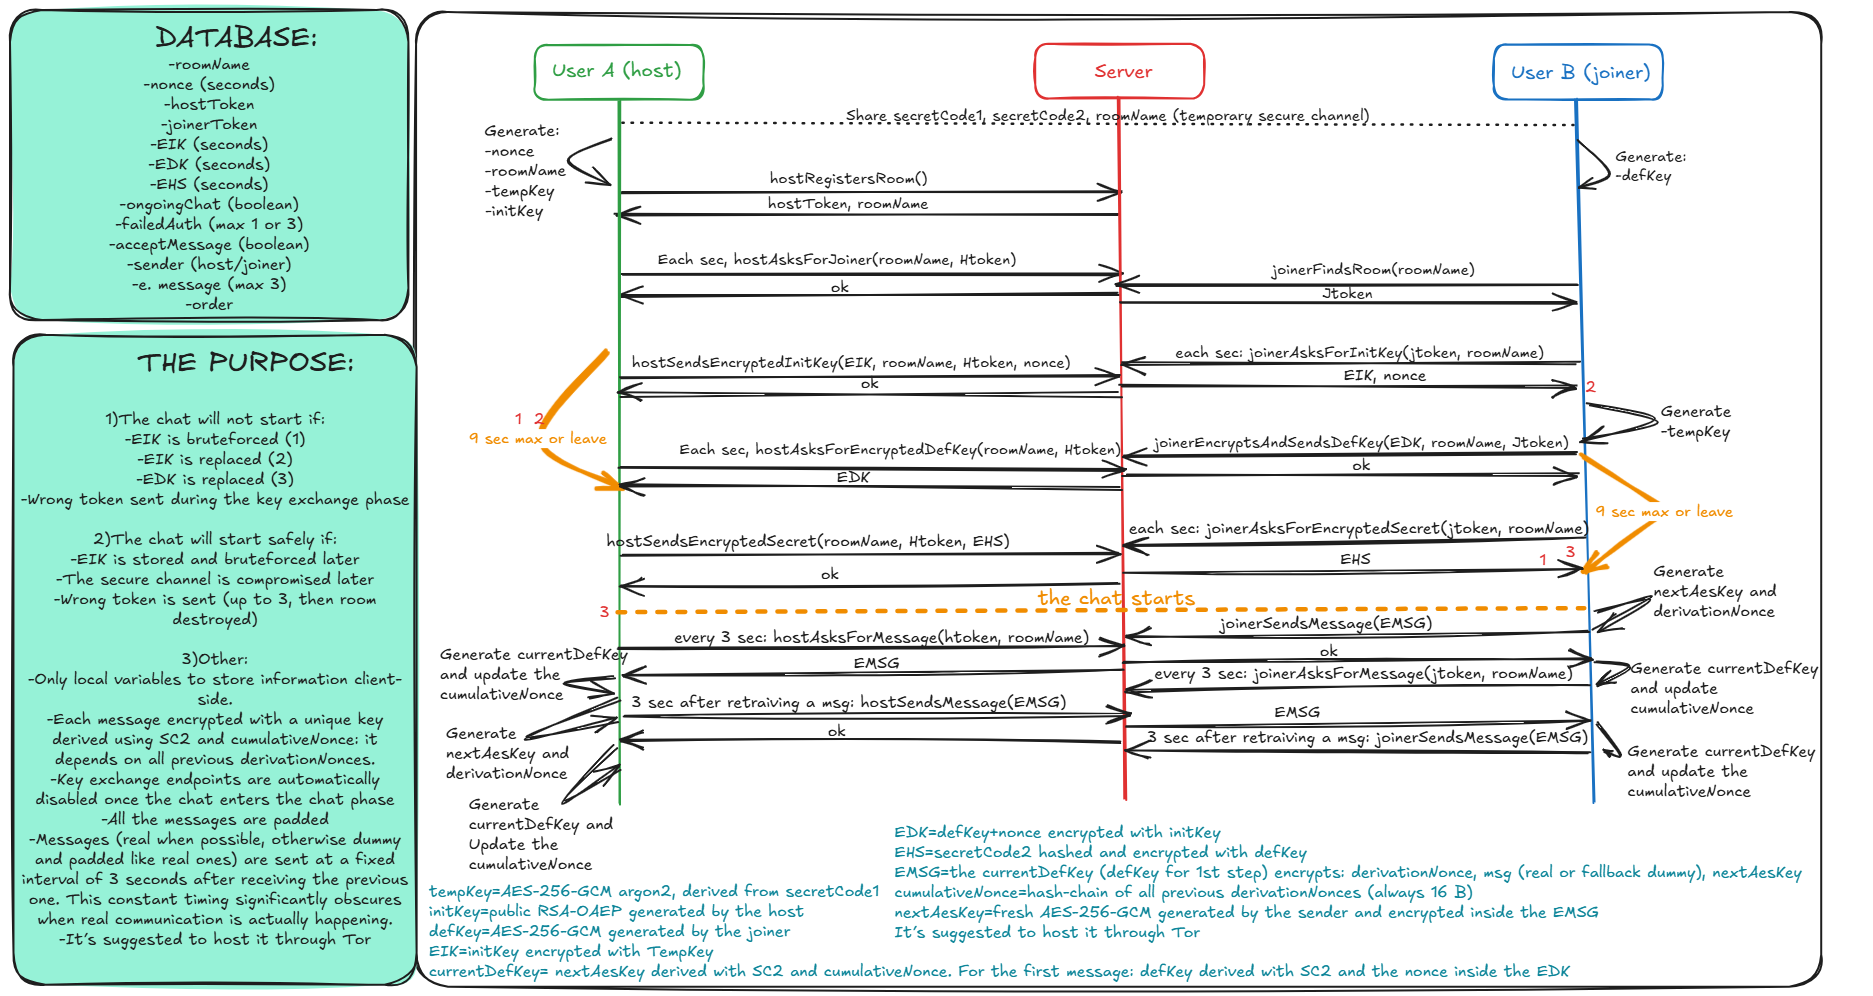
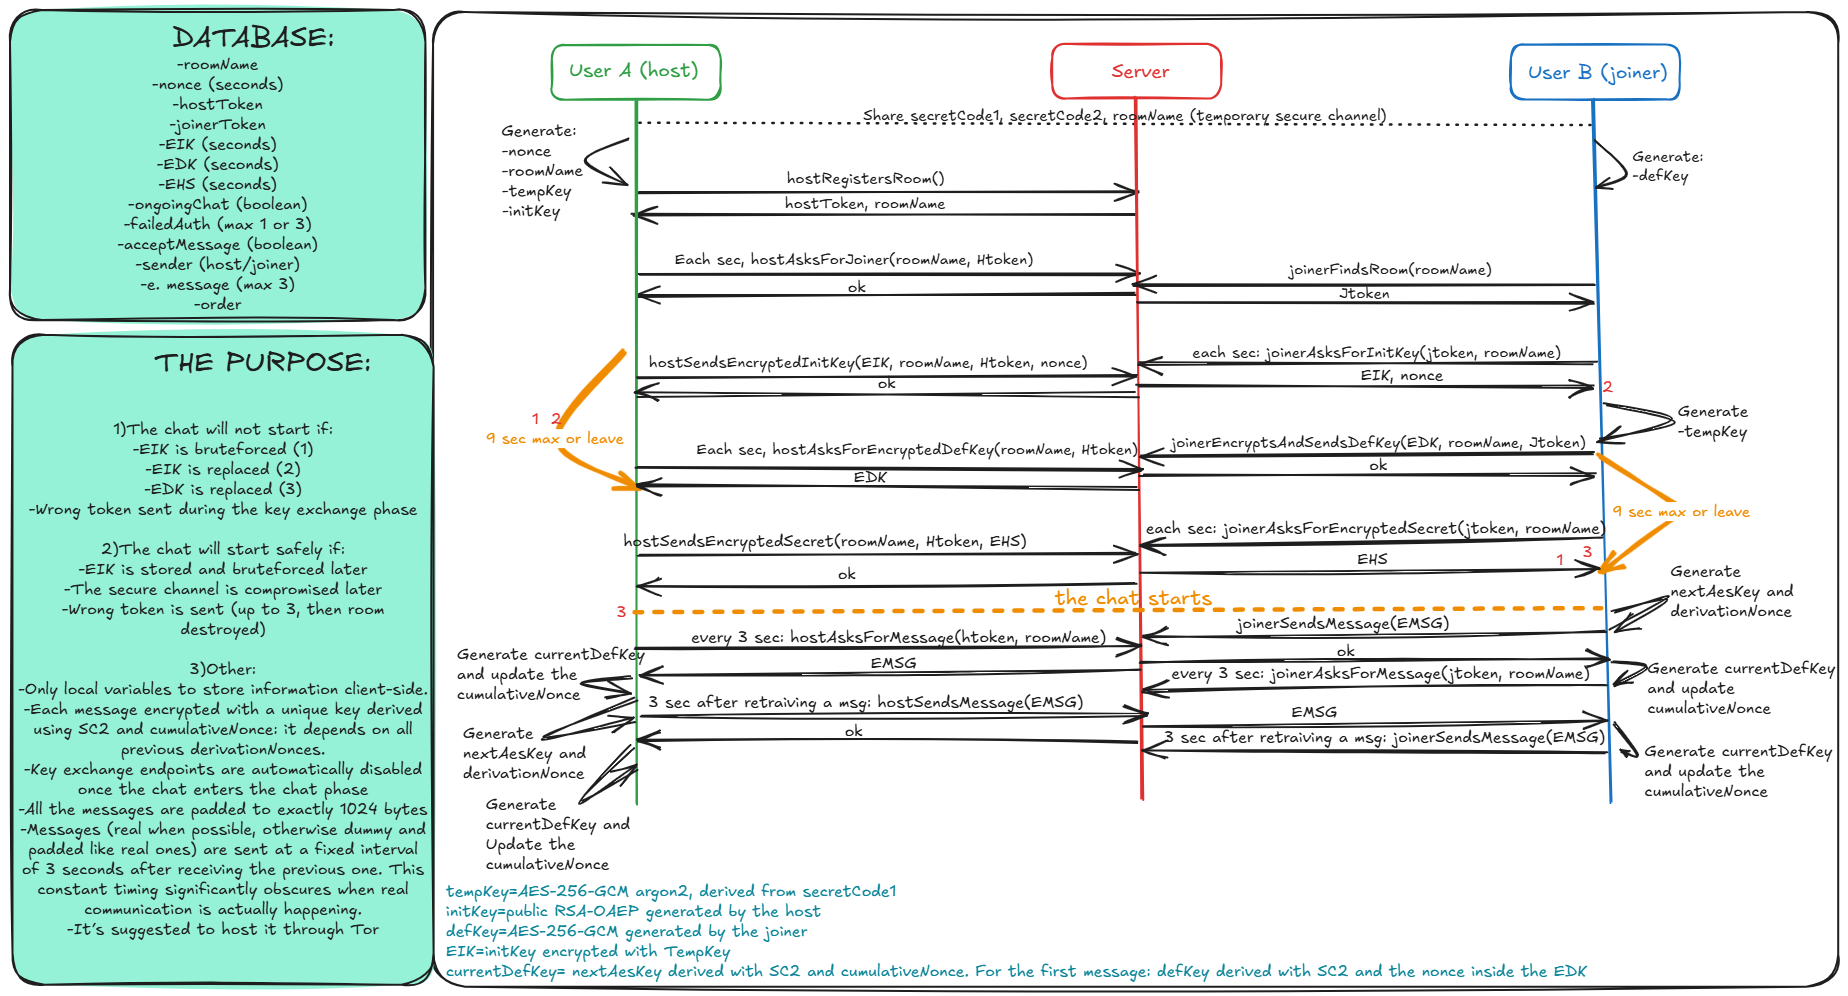
fix: use fixed-byte padding to close UTF-8 multi-byte side-channel
Every message now padded to exactly 1024 random bytes, eliminating the UTF-8 multi-byte ratio side-channel

diff --git a/front/script.js b/front/script.js
@@ -12,7 +12,7 @@
 9)The joiner asks for the encrypted hash of SecretCode2, decrypts it, compares it. If matches, the process is validated and the joiner timer cleared then sends the first message and starts the poling to get new messages.
 ----the chat starts---
 -The first message is encrypted (and decrypted) with defKey derived with the nonce (step 6 or 7) and the secretCode2 and sent by the joiner. Then:
-10)The sender encrypts a message (3 digit ASCII length of the real message + the realMessage (can be dummy) + padding up to 420 characters + extra random padding of 0–79 characters, e.g., 004CaféawefTRe47...) + a fresh AES + a nonce (derivationNonce) using currentDefKey and sends it. Then updates cumulativeNonce (first message: defKey as currentKey and the nonce sent with defKey as derivationNonce and secretCode2; later: SHA-256(old||new)[0:15]) and derives the next currentDefKey = AES derived with secretCode2 + cumulativeNonce. 
+10)The sender encrypts a message (3 digit ASCII length of the real message + the realMessage (can be dummy) + random byte padding to exactly 1024 bytes) + a fresh AES + a nonce (derivationNonce) using currentDefKey and sends it. Then updates cumulativeNonce (first message: defKey as currentKey and the nonce sent with defKey as derivationNonce and secretCode2; later: SHA-256(old||new)[0:15]) and derives the next currentDefKey = AES derived with secretCode2 + cumulativeNonce. 
 11)The receiver decrypts using currentDefKey, gets the AES and derivationNonce, updates cumulativeNonce exactly the same way (SHA-256(old||new)[0:15]), then derives the next currentDefKey = the received AES derived with secretCode2 + cumulativeNonce. Finally, he sends a message (a dummy one if the user doesn't send a real message) after 3 seconds.
 */
 function app() {
@@ -964,15 +964,14 @@ function app() {
         if (realMessage === null || realMessage === undefined) {
             return;
         }
-        if (realMessage.length > 420) {
-            console.warn("The message is longer than 420 characters. Please make it shorter or split it.")
+        const messageLength3Chars = String(realMessage.length).padStart(3, "0");
+        const encoder = new TextEncoder();
+        let messageBytes = encoder.encode(messageLength3Chars + realMessage);
+        if (messageBytes.byteLength > 1024) {
+            console.warn("The message is longer than 1024 bytes. Please make it shorter or split it.")
             return
         }
-        const charactersNeededForPadding = 423 - 3 - realMessage.length // Base padding needed to reach 423 characters (3 are reserved for the length field)
-        let extraPaddingLength = Math.floor(Math.random() * 80) // Random padding extension (0–79 extra characters)
-        let padding = generatePadding(charactersNeededForPadding + extraPaddingLength)
-        const messageLength3Chars = String(realMessage.length).padStart(3, "0");
-        let paddedMessage = messageLength3Chars + realMessage + padding //004CafènrUe23j0das0id02ej12e9...
+        let padding = generatePadding(1024 - messageBytes.byteLength)
         try {
             // 1. Generate the next random AES key that will be derived (secretCode2 + cumulativeNonce) and used after this message
             const nextAesKey = await crypto.subtle.generateKey(
@@ -984,13 +983,15 @@ function app() {
             // 2. Generate a fresh derivation nonce (16 bytes) that will be cumulated and used (with secretCode2) to derive the key for the NEXT message
             const derivationNonce = crypto.getRandomValues(new Uint8Array(16));
             // 3. Build the payload: paddedMessage || nextAesKey (32) || derivationNonce (16)
-            const encoder = new TextEncoder();
-            const msgData = encoder.encode(paddedMessage);
+            const msgData = new Uint8Array(1024);
+            msgData.set(messageBytes, 0);
+            msgData.set(padding, messageBytes.byteLength);
             const payload = new Uint8Array(msgData.byteLength + 32 + 16);
             payload.set(msgData, 0);
             payload.set(nextAesRaw, msgData.byteLength);
             payload.set(derivationNonce, msgData.byteLength + 32);
             // 4. Standard AES-GCM IV (still sent in clear – required by the algorithm)
+            console.log(payload)
             const iv = crypto.getRandomValues(new Uint8Array(12));
             // 5. Encrypt everything with the current key
             const encrypted = await crypto.subtle.encrypt(
@@ -1035,13 +1036,7 @@ function app() {
     }
 
     function generatePadding(length) {
-        let padding = '';
-        const allowedCharacters = 'ABCDEFGHIJKLMNOPQRSTUVWXYZabcdefghijklmnopqrstuvwxyz0123456789èìòàé';
-        for (let i = 0; i < length; i++) {
-            const randomIndex = Math.floor(Math.random() * allowedCharacters.length);
-            padding += allowedCharacters[randomIndex];
-        }
-        return padding
+        return crypto.getRandomValues(new Uint8Array(length));
     }
 
 

diff --git a/readme.md b/readme.md
@@ -47,7 +47,7 @@
       -The initKey is an RSA public key because even if the tempKey (which encrypts the initKey) is compromised later, the defKey it protects remains safe: the RSA private key never leaves the browser. Another reason is that only someone who immediately holds the tempKey can recover the initKey and use it to encrypt the defKey, and any attempt to tamper with the tempKey triggers the safety timers. No trust in the server is required. 
 
    **Network**
-      -Every message (real or dummy) advances the key chain and includes a fixed and a random padding so an attacker cannot determine the real length of the content. Only real messages are shown in the user interface.
+      -Every message (real or dummy) advances the key chain and is padded to exactly 1024 bytes so an attacker cannot determine the real length of the content. Only real messages are shown in the user interface.
       -Both users check for new messages every 3 seconds. After the first message (sent by the joiner), all subsequent messages are sent 3 seconds after receiving one. If the user does not write anything, the system sends an empty message instead.
       These intervals can be changed using the constants MESSAGE_RESPONSE_DELAY and MESSAGE_GET_DELAY.
       The chat continues for a random duration between 3 and 9 hours if anyone sends a real message but devices stay connected.
@@ -79,7 +79,7 @@
 9)The joiner asks for the encrypted hash of SecretCode2, decrypts it, compares it. If matches, the process is validated and the joiner timer cleared then sends the first message and starts the poling to get new messages.
 ----the chat starts---
 -The first message is encrypted (and decrypted) with defKey derived with the nonce (step 6 or 7) and the secretCode2 and sent by the joiner. Then:
-10)The sender encrypts a message (3 digit ASCII length of the real message + the realMessage (can be dummy) + padding up to 420 characters + extra random padding of 0–79 characters, e.g., 004CaféawefTRe47...) + a fresh AES + a nonce (derivationNonce) using currentDefKey and sends it. Then updates cumulativeNonce (first message: defKey as currentKey and the nonce sent with defKey as derivationNonce and secretCode2; later: SHA-256(old||new)[0:15]) and derives the next currentDefKey = AES derived with secretCode2 + cumulativeNonce. 
+10)The sender encrypts a message (3 digit ASCII length of the real message + the realMessage (can be dummy) + random byte padding to exactly 1024 bytes) + a fresh AES + a nonce (derivationNonce) using currentDefKey and sends it. Then updates cumulativeNonce (first message: defKey as currentKey and the nonce sent with defKey as derivationNonce and secretCode2; later: SHA-256(old||new)[0:15]) and derives the next currentDefKey = AES derived with secretCode2 + cumulativeNonce. 
 11)The receiver decrypts using currentDefKey, gets the AES and derivationNonce, updates cumulativeNonce exactly the same way (SHA-256(old||new)[0:15]), then derives the next currentDefKey = the received AES derived with secretCode2 + cumulativeNonce. Finally, he sends a message (a dummy one if the user doesn't send a real message) after 3 seconds.
 
  
@@ -97,12 +97,11 @@
   STEP 8: hostSendsEncryptedSecret()                  roomName, hostToken, en. hashed secret   -------
   STEP 9: joinerAsksForEncryptedSecret()              roomName, joinerToken                    en. hashed secret
   -------------------------------------------CHAT STARTS----------------------------------------------------
-  ## Message structure: currentDefKey encrypts: {len3||realMessage||basePadding||extraPadding||nextAesKey||derivationNonce(16B)} 
+## Message structure: currentDefKey encrypts: {len3||realMessage||paddingBytes||nextAesKey||derivationNonce(16B)} 
 
-  *len3 = 3‑digit ASCII length of the real message (e.g., "004")
-  *realMessage= the actual user message (e.g., "Café")
-  *basePadding=padding to reach 423 characters (minus the 3‑digit length)
-  *extraPadding = random padding (0–79 characters)
+*len3 = 3‑digit ASCII length of the real message (e.g., "004")
+*realMessage= the actual user message (e.g., "Café")
+*paddingBytes= random bytes to reach exactly 1024 bytes
   *nextAesKey = a fresh AES key that will be combined with cumulativeNonce and secretCode2 to derive the next currentDefKey
   *derivationNonce= fresh nonce generated by the sender for each message, always encrypted with currentDefKey when it leaves the browser
   *cumulativeNonce= hash-chain of all previous derivationNonces (always 16 B)
